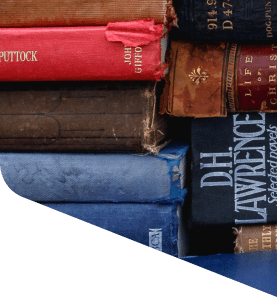
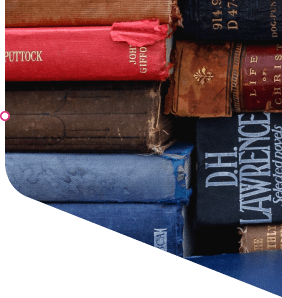
Add points to the illustration images

diff --git a/assets/setup-wizard/welcome/style.scss b/assets/setup-wizard/welcome/style.scss
@@ -1,6 +1,6 @@
 .sensei-setup-wizard {
 	background-image: url("../images/onboarding-bottom-left-illustration.png"), url("../images/onboarding-top-right-illustration.png");
-	background-position: -346px 100%, calc( 100% + 277px ) 0;
+	background-position: -346px 100%, calc( 100% + 282px ) 0;
 	background-repeat: no-repeat;
 	transition: 0.5s background-position;
 	background-size: auto 220px;
